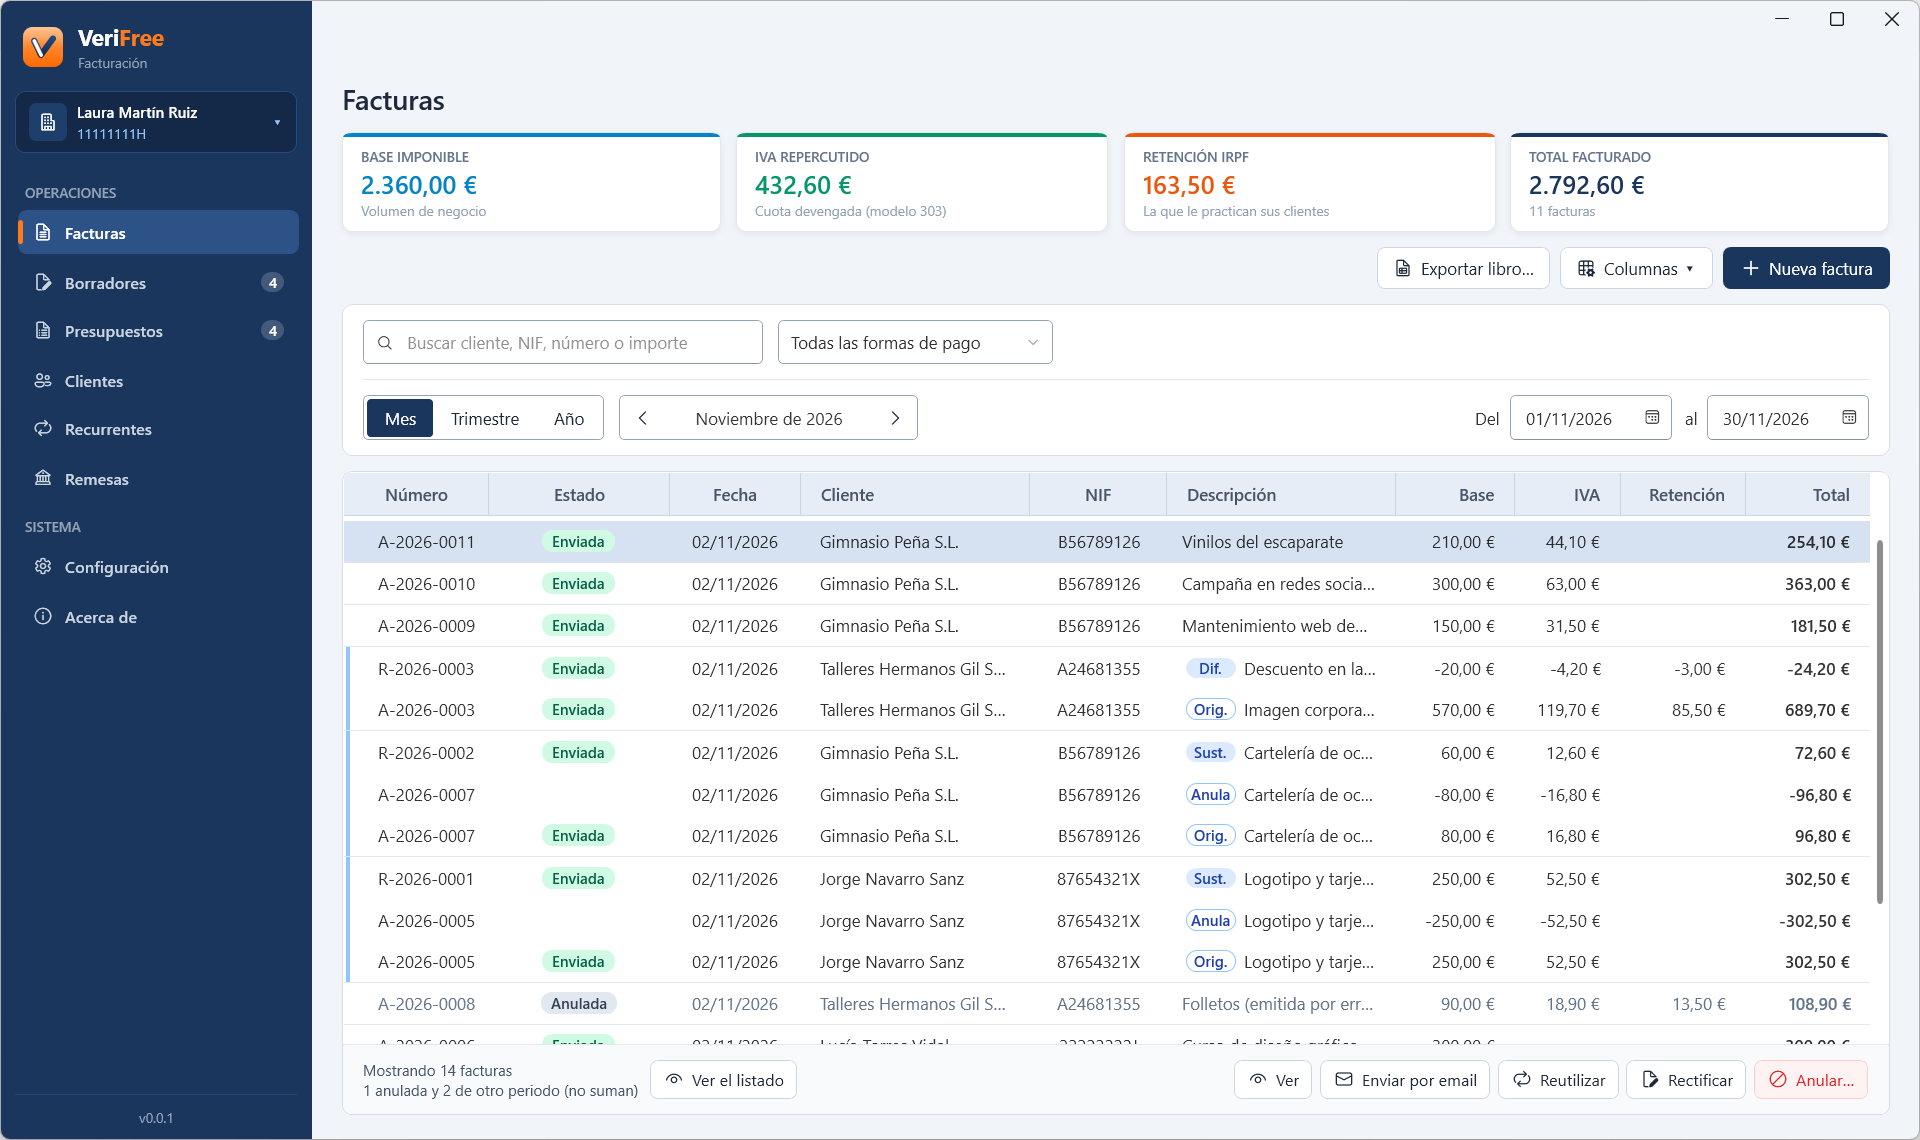
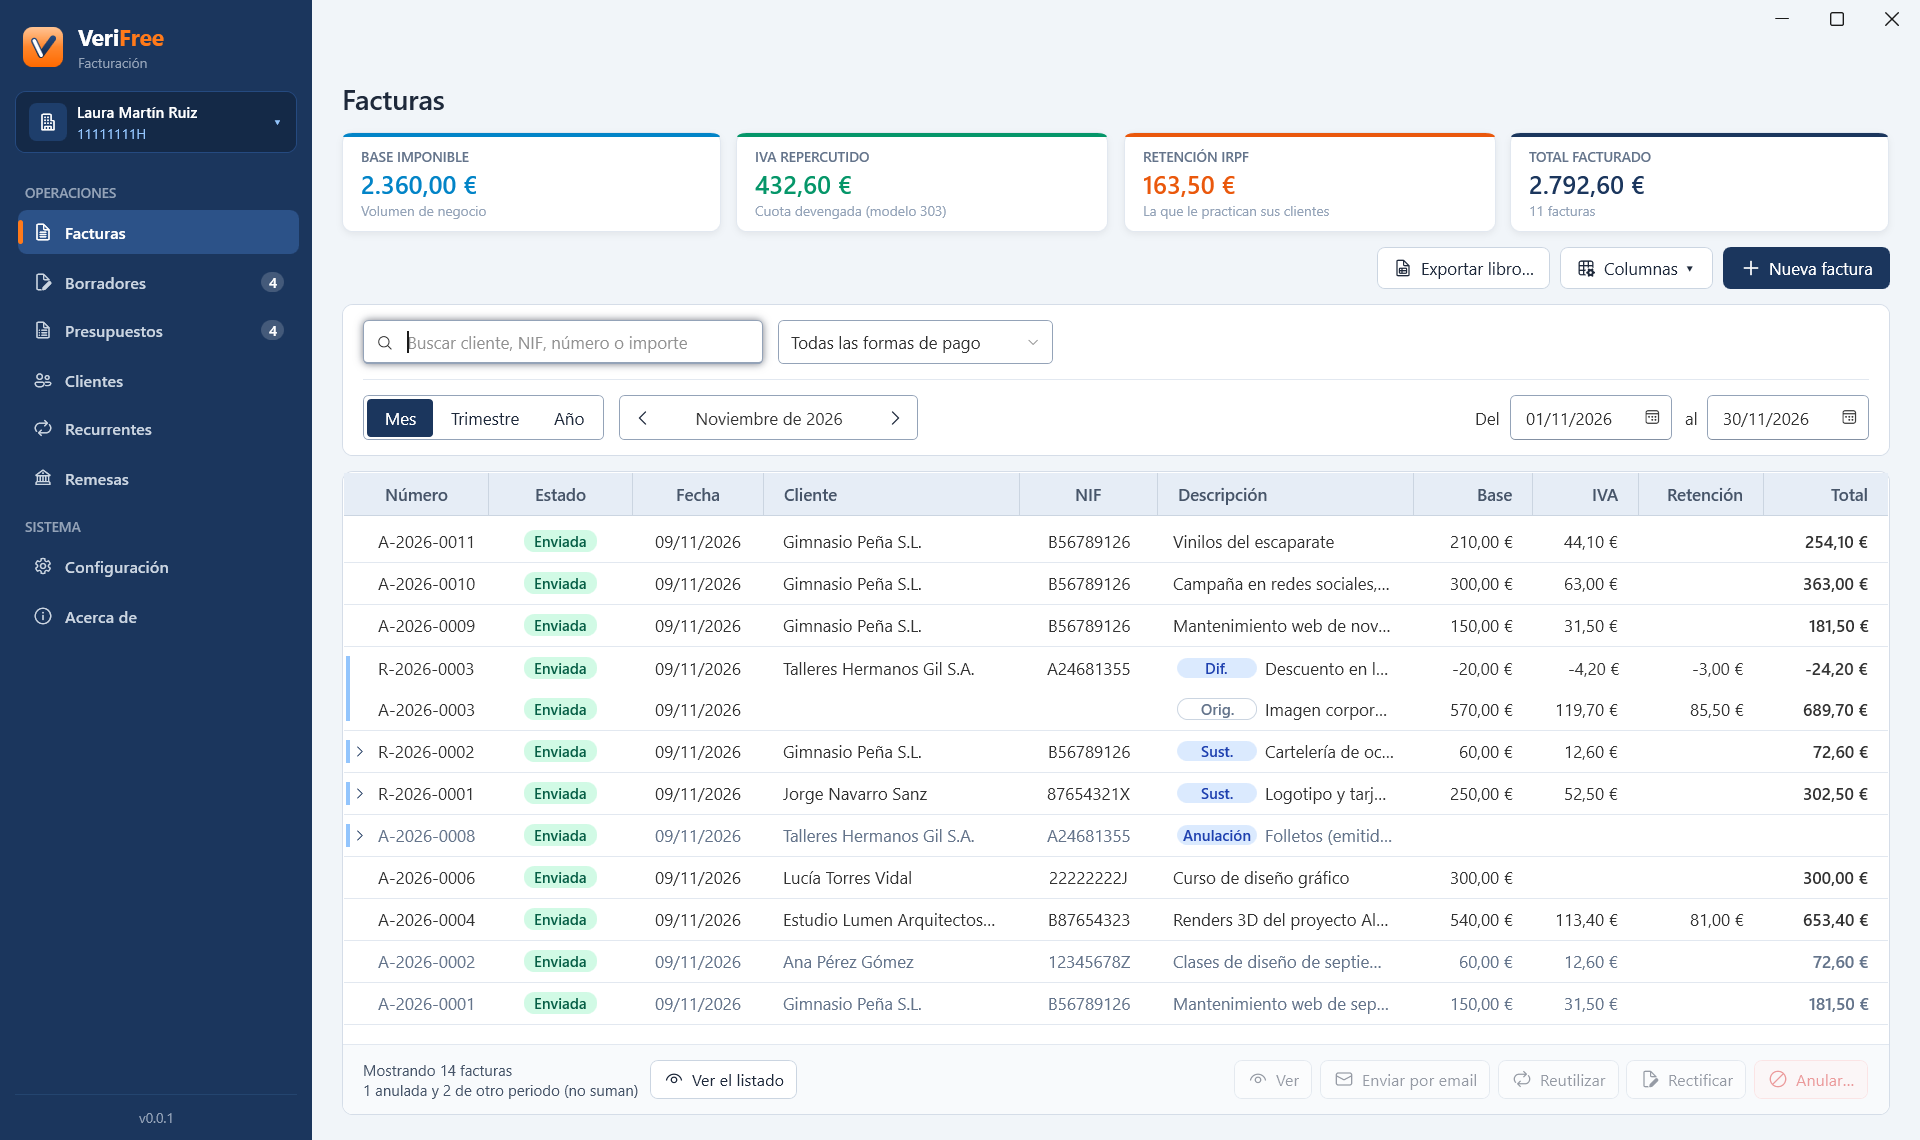
Manual y captura de Facturas: los bloques plegados muestran lo que suma, la anulada se pliega y el listado lleva todas

diff --git a/manual.html b/manual.html
@@ -182,7 +182,7 @@
       <section id="facturas">
         <h2>7. Facturas emitidas</h2>
         <p>En <strong>Facturas</strong> están las emitidas del periodo que elijas: <strong>Mes</strong>, <strong>Trimestre</strong> o <strong>Año</strong>, con las flechas para ir al anterior o al siguiente (el trimestre anterior, el del modelo 303, queda a un clic), o las fechas que escribas. Cada factura cuenta en el periodo de su fecha de operación; en el de su emisión, si es otro, sale en gris. Arriba ves sus totales: base imponible, IVA, retención de IRPF y total. El buscador busca en el número de la factura, en el nombre o el NIF del cliente y en el importe, y el desplegable filtra por forma de pago.</p>
-        <p>Cada factura sale con sus rectificativas en un bloque, con su etiqueta («Orig.», «Sust.», «Dif.» o «Anula»); las de otro periodo y la factura sustituida, plegadas: la flecha las despliega. Una factura anulada sale siempre con su anulación debajo, cada una con su fecha y su etiqueta («Anulada» y «Anulación»), en gris y sin sumar; la anulación, sin importes. Si se anula en otro mes, las dos salen igual en el de la factura y en el de la anulación: así la ves cuando la deshaces en tu contabilidad.</p>
+        <p>Cada factura sale con sus rectificativas en un bloque, con su etiqueta («Orig.», «Sust.», «Dif.» o «Anula»). Plegado, el bloque enseña solo lo que suma en el periodo; la flecha despliega el resto, como la factura sustituida o las de otros periodos. Una factura anulada va con su anulación, cada una con su fecha y su etiqueta («Anulada» y «Anulación»), en gris y sin sumar; la anulación, sin importes. Salen en el mes de la factura y en el de la anulación, así la ves cuando la deshaces en tu contabilidad: plegada, arriba está lo de ese mes, y la flecha despliega lo demás. Si la AEAT rechaza algo de un bloque, se queda desplegado.</p>
         <figure class="captura">
           <img src="capturas/facturas.png" alt="Lista de facturas de VeriFree con los totales del mes y los botones de cada factura" width="1920" height="1140" loading="lazy">
           <figcaption>Datos de ejemplo.</figcaption>
@@ -204,7 +204,7 @@
           <dt>Volver a enviar a la AEAT…</dt>
           <dd>Para una factura que la AEAT rechazó, cuando la causa ya está resuelta. Ver <a href="#aeat">Envío a la AEAT</a>.</dd>
         </dl>
-        <p>Al pie de la tabla, <strong>Ver el listado</strong> saca en PDF las facturas tal como las ves, con sus totales y el desglose por tipo de IVA. Con <strong>Columnas ▾</strong> eliges qué columnas ves; VeriFree recuerda tu elección, su orden y su ancho.</p>
+        <p>Al pie de la tabla, <strong>Ver el listado</strong> saca en PDF las facturas como las ves, con sus totales y el desglose por tipo de IVA; siempre con todas las del periodo, también las plegadas. Con <strong>Columnas ▾</strong> eliges qué columnas ves; VeriFree recuerda tu elección, su orden y su ancho.</p>
       </section>
 
       <section id="email">
